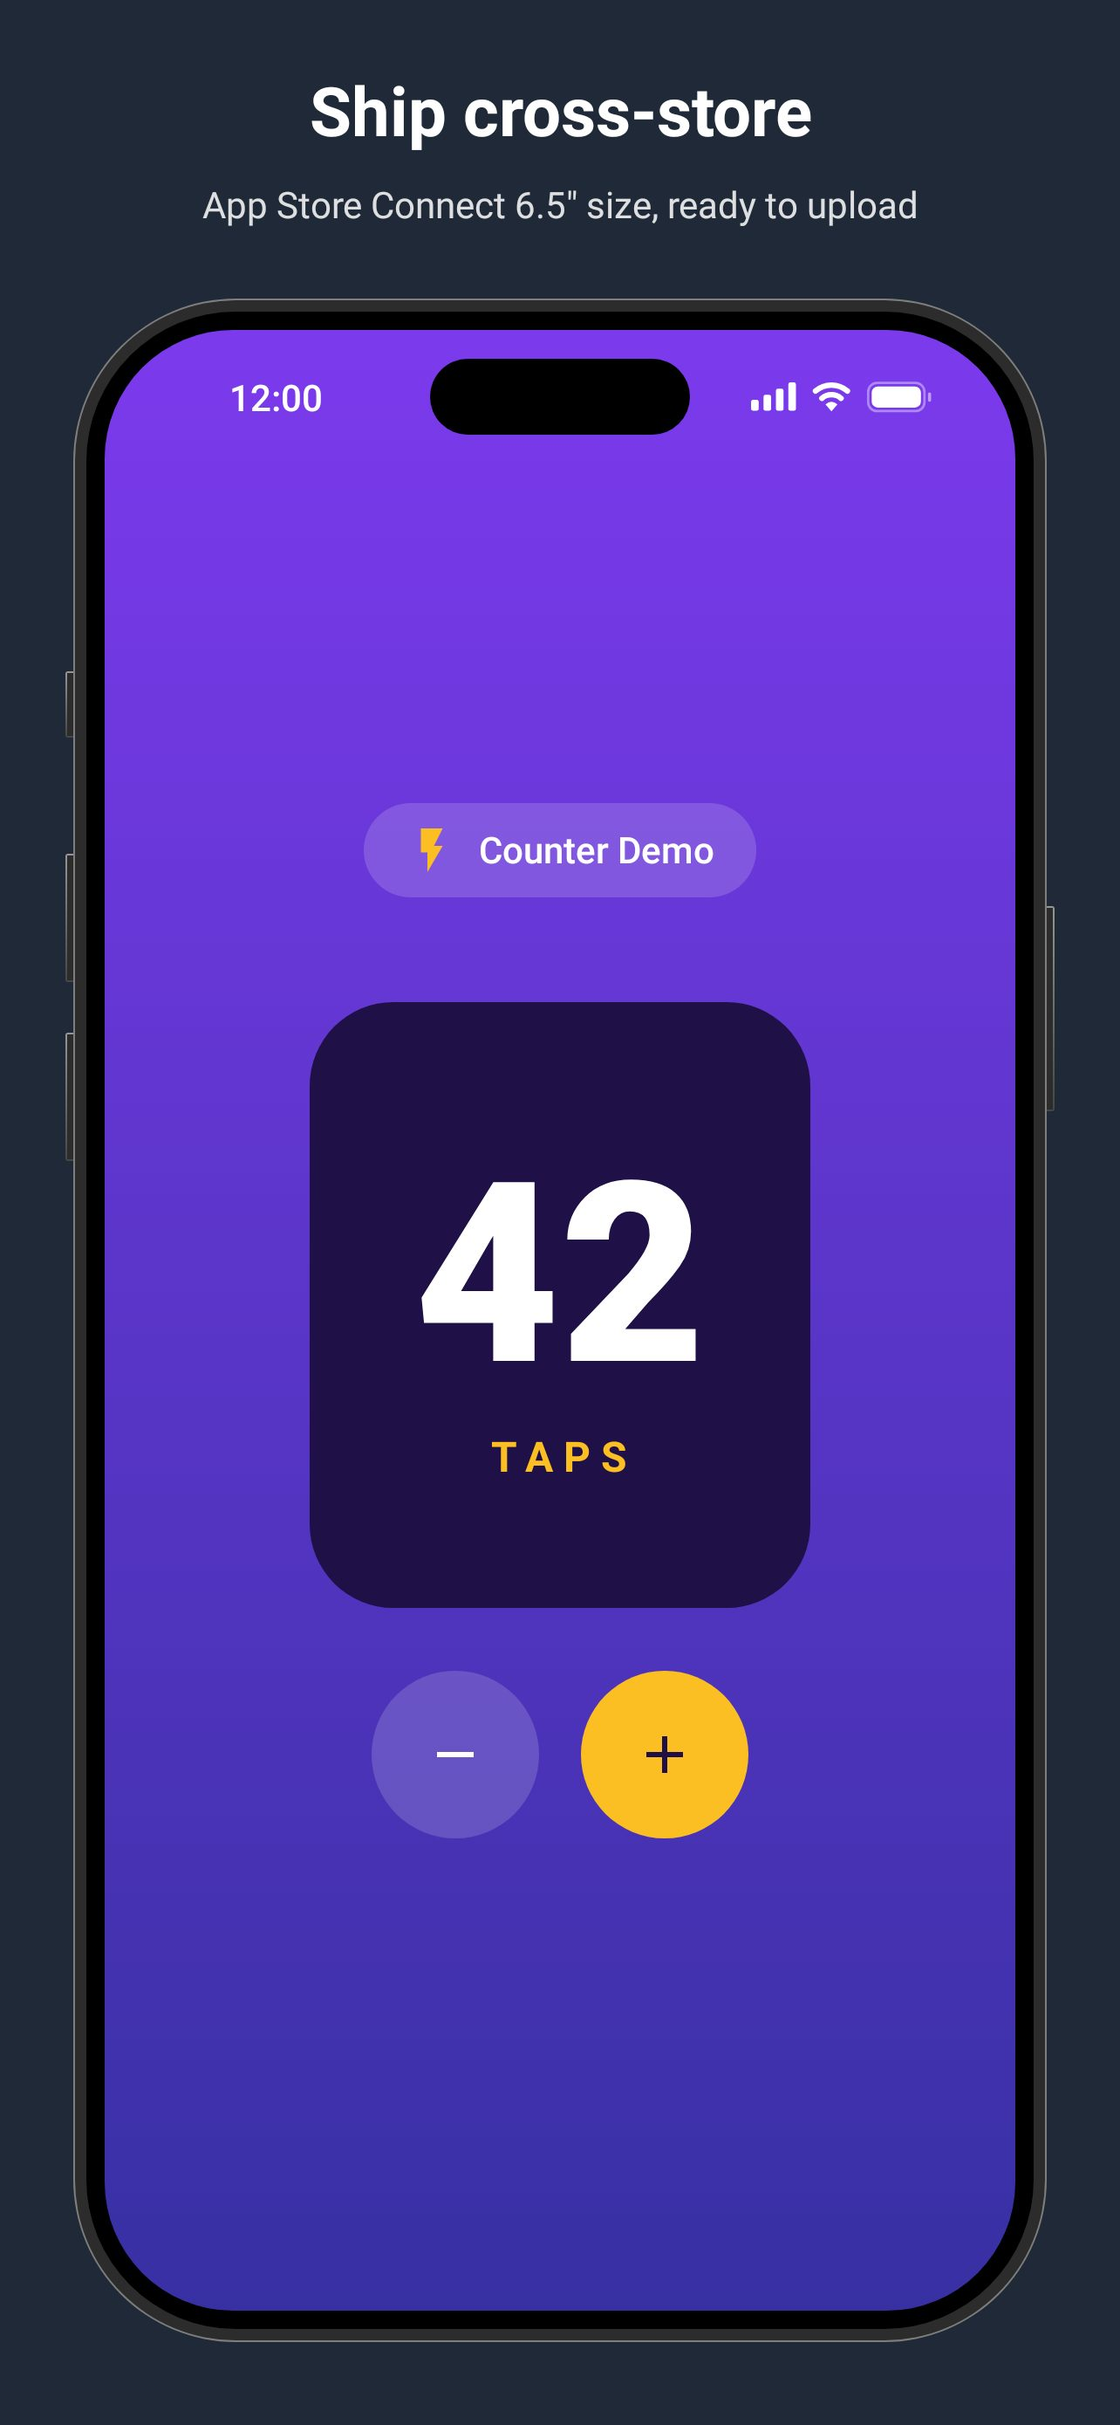
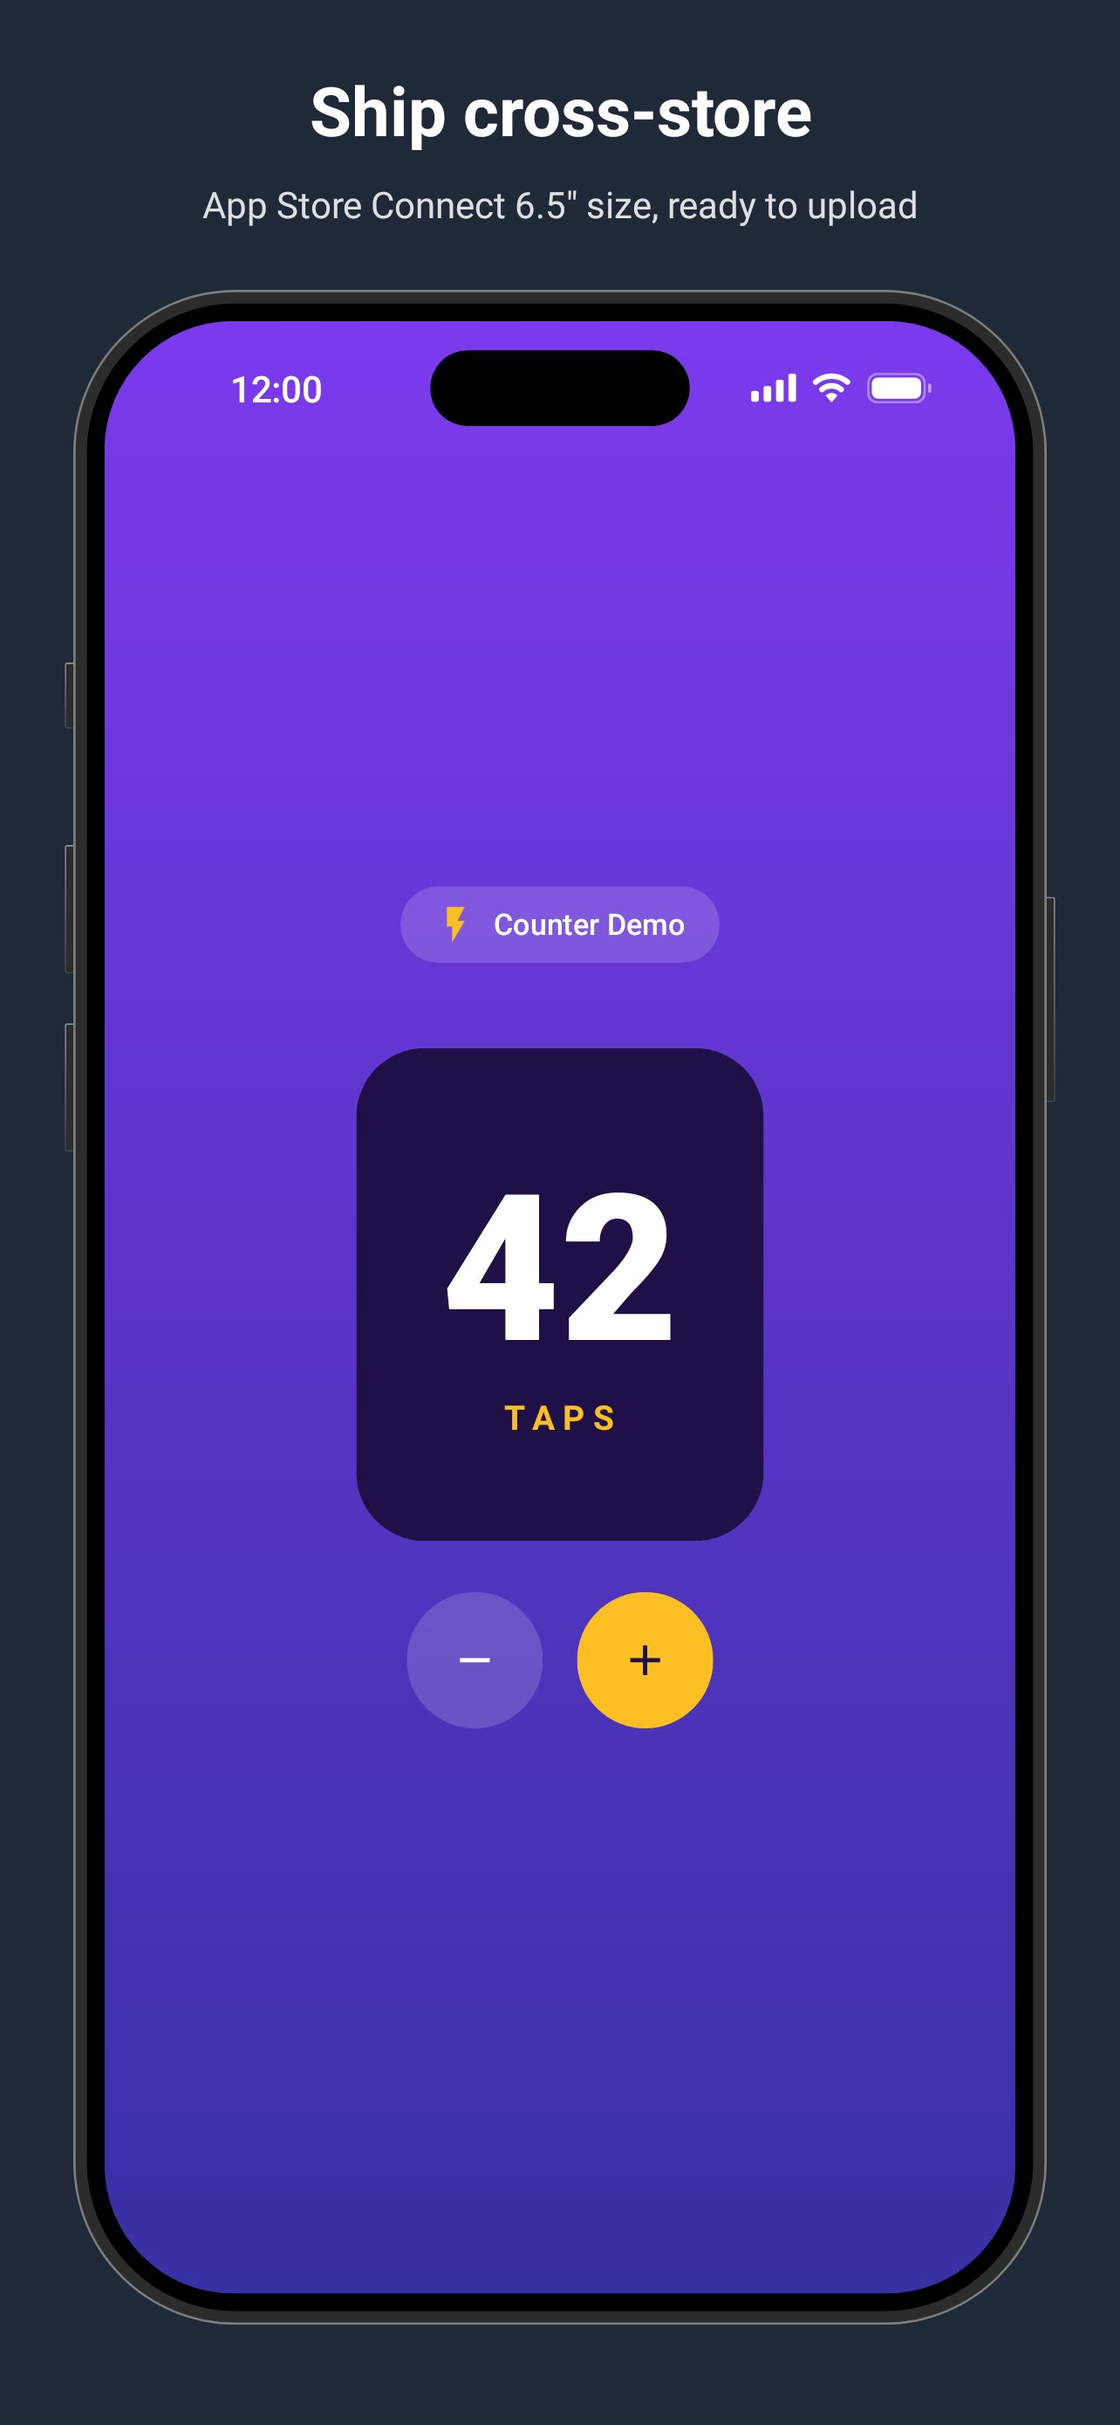
Measure Apple frame content at the slot's logical size
PhoneFrame has measured its content at a real device's 411x822dp and scaled
the mockup since 1.5.5, and DeviceMockup gives every form factor the same
contract. The Apple frames never got it: AppleFrame and AppleIPadFrame placed
content straight into the bezel's on-canvas footprint, so the banner's padding
and the bezel each took their cut of the slot's width before the app saw any
of it. A 6.5" screenshot measured its app at ~348dp instead of the 428dp its
canvas qualifiers promise — every sp and dp rendered ~20% larger than on a
real device, and width-sensitive layouts moved: the symptom that surfaced this
was a search field's placeholder folding onto two lines in a store listing,
on a screen that renders one line on every real iPhone.

Both frames now do what PhoneFrame does: measure content at the slot's
logical size — 428x926 and 430x932 for the iPhones, 1024x1366 for the iPad —
inside the device environment, and scale the whole mockup into the room the
banner leaves. FormFactor gains an internal logicalSize derived from the same
qualifiers the canvas renders under, so the Configuration, the WindowInfo and
the resource buckets all name one device. AppleFrame takes the slot as a
parameter since the two iPhone shelves differ; the dispatchers pass it.

AppleFrameEnvironmentTest pins the contract for all three slots by asserting
exact equality on both locals a screen can ask. The example screenshots move
[…]

Changed region(s): [[0.2492, 0.3096, 0.7477, 0.7739], [0.0623, 0.1238, 0.9346, 0.1857], [0.0623, 0.8978, 0.9346, 0.9597]]

diff --git a/library/src/main/kotlin/dev/lucianosantos/storescreenshots/frames/AppleFrame.kt b/library/src/main/kotlin/dev/lucianosantos/storescreenshots/frames/AppleFrame.kt
@@ -1,14 +1,17 @@
 package dev.lucianosantos.storescreenshots.frames
 
 import androidx.compose.foundation.layout.ColumnScope
-import androidx.compose.foundation.layout.aspectRatio
-import androidx.compose.foundation.layout.fillMaxHeight
+import androidx.compose.foundation.layout.fillMaxSize
 import androidx.compose.runtime.Composable
 import androidx.compose.ui.Modifier
 import androidx.compose.ui.graphics.Color
 import androidx.compose.ui.unit.dp
 import androidx.compose.ui.unit.sp
+import dev.lucianosantos.storescreenshots.FormFactor
+import dev.lucianosantos.storescreenshots.ProvideDeviceEnvironment
+import dev.lucianosantos.storescreenshots.ScaledMockup
 import dev.lucianosantos.storescreenshots.ScreenshotStyle
+import dev.lucianosantos.storescreenshots.iPhoneBodySize
 
 /** Width-to-height ratio of the default [AppleFrame] device's enclosure. */
 val AppleIPhoneAspectRatio: Float = AppleIPhoneModel.IPhone17ProMax.aspectRatio
@@ -19,6 +22,13 @@ val AppleIPhoneAspectRatio: Float = AppleIPhoneModel.IPhone17ProMax.aspectRatio
  * The mockup is a scale model of [device] as the Simulator draws it — machined rail, black bezel,
  * rounded display, side buttons, Dynamic Island, and an iOS status bar rather than a Material one,
  * which App Store Review guideline 2.3.10 rejects.
+ *
+ * [content] is measured at [formFactor]'s logical size — the dp rectangle the slot's qualifiers
+ * name, 428x926 for the 6.5" slot and 430x932 for the 6.7" — and the whole mockup is then scaled
+ * uniformly into the room the banner leaves, exactly the way [PhoneFrame]'s content is measured at
+ * a real phone's 411x822dp. The screen inside the frame therefore lays out at real-device
+ * proportions however small the banner draws the device, instead of being measured at whatever dp
+ * the bezel's footprint happens to span on the canvas.
  *
  * [device] defaults to the iPhone 17 Pro Max, which is what both App Store iPhone slots are sized
  * for and what a reviewer expects a current submission to depict. [aspectRatio] is the aspect ratio
@@ -31,10 +41,14 @@ fun AppleFrame(
     backgroundColor: Color,
     contentColor: Color = Color.White,
     style: ScreenshotStyle = ScreenshotStyle(),
+    formFactor: FormFactor = FormFactor.AppleIPhone67,
     device: AppleIPhoneModel = AppleIPhoneModel.IPhone17ProMax,
     aspectRatio: Float = device.aspectRatio,
     content: @Composable () -> Unit,
 ) {
+    require(formFactor == FormFactor.AppleIPhone65 || formFactor == FormFactor.AppleIPhone67) {
+        "AppleFrame draws the App Store iPhone slots; $formFactor is not one."
+    }
     FramedLayout(
         title = title,
         description = description,
@@ -48,7 +62,7 @@ fun AppleFrame(
         titleFontSize = 26.sp,
         descriptionFontSize = 14.sp,
         mockup = { externalModifier ->
-            IPhoneMockup(externalModifier, style, aspectRatio, device, content)
+            IPhoneMockup(externalModifier, style, formFactor, device, aspectRatio, content)
         }
     )
 }
@@ -57,20 +71,32 @@ fun AppleFrame(
 private fun ColumnScope.IPhoneMockup(
     externalModifier: Modifier,
     style: ScreenshotStyle,
-    aspectRatio: Float,
+    formFactor: FormFactor,
     device: AppleIPhoneModel,
+    aspectRatio: Float,
     content: @Composable () -> Unit,
 ) {
-    IPhoneBezel(
-        modifier = externalModifier
-            .fillMaxHeight()
-            .aspectRatio(aspectRatio),
-        showStatusBar = style.showStatusBar,
-        clock = style.statusBarClock,
-        statusBarContentDark = style.statusBarContentDark,
-        edgeToEdge = style.edgeToEdge,
-        metrics = device.metrics,
-        elevation = style.mockupElevation,
-        content = content,
-    )
+    // The slot's logical screen, and the body that display sits in at the device's proportions.
+    val logical = formFactor.logicalSize
+    val (bodyWidth, nativeBodyHeight) = iPhoneBodySize(device, logical.width, logical.height)
+    // An overridden ratio reshapes the body it is documented to describe; the default lands on the
+    // derived height exactly.
+    val bodyHeight = if (aspectRatio == device.aspectRatio) {
+        nativeBodyHeight
+    } else {
+        (bodyWidth.value / aspectRatio).dp
+    }
+    ScaledMockup(bodyWidth, bodyHeight, externalModifier) {
+        IPhoneBezel(
+            modifier = Modifier.fillMaxSize(),
+            showStatusBar = style.showStatusBar,
+            clock = style.statusBarClock,
+            statusBarContentDark = style.statusBarContentDark,
+            edgeToEdge = style.edgeToEdge,
+            metrics = device.metrics,
+            elevation = style.mockupElevation,
+        ) {
+            ProvideDeviceEnvironment(logical.width, logical.height, content)
+        }
+    }
 }

diff --git a/library/src/test/kotlin/dev/lucianosantos/storescreenshots/frames/AppleFrameEnvironmentTest.kt b/library/src/test/kotlin/dev/lucianosantos/storescreenshots/frames/AppleFrameEnvironmentTest.kt
@@ -1,0 +1,104 @@
+package dev.lucianosantos.storescreenshots.frames
+
+import androidx.compose.foundation.background
+import androidx.compose.foundation.layout.Box
+import androidx.compose.foundation.layout.fillMaxSize
+import androidx.compose.runtime.Composable
+import androidx.compose.ui.Modifier
+import androidx.compose.ui.graphics.Color
+import androidx.compose.ui.platform.LocalConfiguration
+import androidx.compose.ui.platform.LocalWindowInfo
+import androidx.compose.ui.unit.IntSize
+import dev.lucianosantos.storescreenshots.FormFactor
+import dev.lucianosantos.storescreenshots.StoreScreenshotsTest
+import org.junit.Assert.assertEquals
+import org.junit.Test
+
+/**
+ * What a screen inside an Apple frame believed about the device it was on. Recorded during
+ * composition rather than asserted there, so a failure reports the values instead of dying
+ * inside Compose.
+ */
+private class Seen {
+    var containerSize: IntSize? = null
+    var screenWidthDp: Int? = null
+}
+
+@Composable
+private fun RecordingContent(seen: Seen) {
+    seen.containerSize = LocalWindowInfo.current.containerSize
+    seen.screenWidthDp = LocalConfiguration.current.screenWidthDp
+    Box(Modifier.fillMaxSize().background(Color(0xFF6A1B9A)))
+}
+
+/**
+ * The Apple frames measure content at the slot's logical size — 428x926dp for the 6.5" iPhone,
+ * 1024x1366dp for the 13" iPad — and scale the mockup into the banner, the way [PhoneFrame] has
+ * measured at 411x822dp since 1.5.5.
+ *
+ * They used to place content straight into the bezel's on-canvas footprint instead: the banner's
+ * padding and the bezel each took their share of the slot's width first, and a 6.5" screenshot
+ * measured its app at ~348dp — 80dp narrower than the 428dp the canvas qualifiers promise. Every
+ * sp and dp then rendered ~20% larger than on a real device, and width-sensitive layouts broke:
+ * the first symptom in the wild was a search field's placeholder folding onto two lines in a
+ * store listing, on a screen that renders one line on every real iPhone.
+ *
+ * Asserting exact equality with the slot's logical size, on both locals a screen can ask, pins
+ * the contract: the qualifiers, the Configuration and the WindowInfo all name the same device.
+ */
+class AppleFrameEnvironmentTest {
+
+    class IPhone65 : StoreScreenshotsTest(FormFactor.AppleIPhone65) {
+        @Test
+        fun contentIsMeasuredAtTheSlotsLogicalSize() {
+            val seen = Seen()
+            screenshot(
+                locales = listOf("en-US"),
+                title = "probe",
+                description = "probe",
+                backgroundColor = Color.Black,
+                fileName = "env_iphone65",
+            ) { RecordingContent(seen) }
+            seen.assertLogicalSize(width = 428, height = 926)
+        }
+    }
+
+    class IPhone67 : StoreScreenshotsTest(FormFactor.AppleIPhone67) {
+        @Test
+        fun contentIsMeasuredAtTheSlotsLogicalSize() {
+            val seen = Seen()
+            screenshot(
+                locales = listOf("en-US"),
+                title = "probe",
+                description = "probe",
+                backgroundColor = Color.Black,
+                fileName = "env_iphone67",
+            ) { RecordingContent(seen) }
+            seen.assertLogicalSize(width = 430, height = 932)
+        }
+    }
+
+    class IPad13 : StoreScreenshotsTest(FormFactor.AppleIPad13) {
+        @Test
+        fun contentIsMeasuredAtTheSlotsLogicalSize() {
+            val seen = Seen()
+            screenshot(
+                locales = listOf("en-US"),
+                title = "probe",
+                description = "probe",
+                backgroundColor = Color.Black,
+                fileName = "env_ipad13",
+            ) { RecordingContent(seen) }
+            seen.assertLogicalSize(width = 1024, height = 1366)
+        }
+    }
+}
+
+private fun Seen.assertLogicalSize(width: Int, height: Int) {
+    assertEquals("Configuration.screenWidthDp", width, requireNotNull(screenWidthDp) { "content never composed" })
+    val container = requireNotNull(containerSize) { "content never composed" }
+    // The canvases render at 3x (iPhones) and 2x (iPad); containerSize is in pixels.
+    val density = if (width >= 1024) 2 else 3
+    assertEquals("containerSize.width", width * density, container.width)
+    assertEquals("containerSize.height", height * density, container.height)
+}

diff --git a/library/src/main/kotlin/dev/lucianosantos/storescreenshots/frames/IPadFrame.kt b/library/src/main/kotlin/dev/lucianosantos/storescreenshots/frames/IPadFrame.kt
@@ -1,14 +1,17 @@
 package dev.lucianosantos.storescreenshots.frames
 
 import androidx.compose.foundation.layout.ColumnScope
-import androidx.compose.foundation.layout.aspectRatio
-import androidx.compose.foundation.layout.fillMaxHeight
+import androidx.compose.foundation.layout.fillMaxSize
 import androidx.compose.runtime.Composable
 import androidx.compose.ui.Modifier
 import androidx.compose.ui.graphics.Color
 import androidx.compose.ui.unit.dp
 import androidx.compose.ui.unit.sp
+import dev.lucianosantos.storescreenshots.FormFactor
+import dev.lucianosantos.storescreenshots.ProvideDeviceEnvironment
+import dev.lucianosantos.storescreenshots.ScaledMockup
 import dev.lucianosantos.storescreenshots.ScreenshotStyle
+import dev.lucianosantos.storescreenshots.iPadBodySize
 import dev.lucianosantos.storescreenshots.frames.IPadAir13Metrics as M
 
 /** Width-to-height ratio of a 13-inch iPad's enclosure, measured off the Simulator. */
@@ -56,15 +59,26 @@ private fun ColumnScope.IPadMockup(
     aspectRatio: Float,
     content: @Composable () -> Unit,
 ) {
-    IPadBezel(
-        modifier = externalModifier
-            .fillMaxHeight()
-            .aspectRatio(aspectRatio),
-        showStatusBar = style.showStatusBar,
-        clock = style.statusBarClock,
-        statusBarContentDark = style.statusBarContentDark,
-        edgeToEdge = style.edgeToEdge,
-        elevation = style.mockupElevation,
-        content = content,
-    )
+    // The slot's logical screen (1024x1366, a real 13" iPad's display) and the body around it.
+    // Content is measured there and the mockup scaled into the banner's room, the same contract
+    // as [AppleFrame] and [PhoneFrame] — not at whatever dp the footprint spans on the canvas.
+    val logical = FormFactor.AppleIPad13.logicalSize
+    val (bodyWidth, nativeBodyHeight) = iPadBodySize(logical.width, logical.height)
+    val bodyHeight = if (aspectRatio == AppleIPadAspectRatio) {
+        nativeBodyHeight
+    } else {
+        (bodyWidth.value / aspectRatio).dp
+    }
+    ScaledMockup(bodyWidth, bodyHeight, externalModifier) {
+        IPadBezel(
+            modifier = Modifier.fillMaxSize(),
+            showStatusBar = style.showStatusBar,
+            clock = style.statusBarClock,
+            statusBarContentDark = style.statusBarContentDark,
+            edgeToEdge = style.edgeToEdge,
+            elevation = style.mockupElevation,
+        ) {
+            ProvideDeviceEnvironment(logical.width, logical.height, content)
+        }
+    }
 }

diff --git a/library/src/main/kotlin/dev/lucianosantos/storescreenshots/DeviceMockup.kt b/library/src/main/kotlin/dev/lucianosantos/storescreenshots/DeviceMockup.kt
@@ -99,14 +99,14 @@ private fun orientSize(portraitWidth: Dp, portraitHeight: Dp, orientation: Mocku
  * bezel on all four sides, at [device]'s measured proportions. [IPhoneBezel] is sized by its body,
  * not its screen, so the footprint has to be grown before it is laid out.
  */
-private fun iPhoneBodySize(device: AppleIPhoneModel, screenWidth: Dp, screenHeight: Dp): Pair<Dp, Dp> {
+internal fun iPhoneBodySize(device: AppleIPhoneModel, screenWidth: Dp, screenHeight: Dp): Pair<Dp, Dp> {
     val m = device.metrics
     val bezel = m.Bezel * (screenWidth.value / m.ScreenWidth)
     return (screenWidth + (bezel * 2).dp) to (screenHeight + (bezel * 2).dp)
 }
 
 /** The same, for an iPad — see [IPadAir13Metrics]. */
-private fun iPadBodySize(screenWidth: Dp, screenHeight: Dp): Pair<Dp, Dp> {
+internal fun iPadBodySize(screenWidth: Dp, screenHeight: Dp): Pair<Dp, Dp> {
     val bezel = IPadAir13Metrics.Bezel * (screenWidth.value / IPadAir13Metrics.ScreenWidth)
     return (screenWidth + (bezel * 2).dp) to (screenHeight + (bezel * 2).dp)
 }
@@ -324,7 +324,7 @@ private fun watchSpec(shape: WatchShape): WatchSpec = when (shape) {
  * lays the device out at, so `MockupOrientation.Landscape` content also reads landscape.
  */
 @Composable
-private fun ProvideDeviceEnvironment(
+internal fun ProvideDeviceEnvironment(
     widthDp: Dp,
     heightDp: Dp,
     content: @Composable () -> Unit,
@@ -372,7 +372,7 @@ private fun ProvideDeviceEnvironment(
  * footprint directly, which would shrink the box but not the text inside it.
  */
 @Composable
-private fun ScaledMockup(
+internal fun ScaledMockup(
     nativeWidth: Dp,
     nativeHeight: Dp,
     modifier: Modifier,

diff --git a/library/src/main/kotlin/dev/lucianosantos/storescreenshots/FormFactor.kt b/library/src/main/kotlin/dev/lucianosantos/storescreenshots/FormFactor.kt
@@ -1,5 +1,8 @@
 package dev.lucianosantos.storescreenshots
 
+import androidx.compose.ui.unit.DpSize
+import androidx.compose.ui.unit.dp
+
 import kotlin.math.abs
 import kotlin.math.roundToInt
 
@@ -142,6 +145,22 @@ enum class FormFactor(
      * copy could only ever drift out of step with them.
      */
     val widthPx: Int get() = qualifiers.toPixelSize().first
+
+    /**
+     * The logical size named by [qualifiers] — the dp rectangle a screen inside this form factor's
+     * device is measured at, and the size [androidx.compose.ui.platform.LocalConfiguration] and
+     * [androidx.compose.ui.platform.LocalWindowInfo] report to it.
+     */
+    internal val logicalSize: DpSize
+        get() {
+            val width = requireNotNull(Regex("""w(\d+)dp""").find(qualifiers)?.groupValues?.get(1)) {
+                "$qualifiers names no width"
+            }
+            val height = requireNotNull(Regex("""h(\d+)dp""").find(qualifiers)?.groupValues?.get(1)) {
+                "$qualifiers names no height"
+            }
+            return DpSize(width.toInt().dp, height.toInt().dp)
+        }
 
     /** Height in pixels of the PNG this form factor produces. See [widthPx]. */
     val heightPx: Int get() = qualifiers.toPixelSize().second

diff --git a/library/src/main/kotlin/dev/lucianosantos/storescreenshots/ScreenshotRule.kt b/library/src/main/kotlin/dev/lucianosantos/storescreenshots/ScreenshotRule.kt
@@ -358,6 +358,7 @@ class ScreenshotRule(
                 FormFactor.AppleIPhone67,
                 FormFactor.AppleIPhone65 -> AppleFrame(
                     title, description, backgroundColor, contentColor, style,
+                    formFactor = formFactor,
                     device = AppleIPhoneModel.IPhone17ProMax,
                     content = content,
                 )

diff --git a/library/src/main/kotlin/dev/lucianosantos/storescreenshots/ScreenshotPreview.kt b/library/src/main/kotlin/dev/lucianosantos/storescreenshots/ScreenshotPreview.kt
@@ -76,6 +76,7 @@ fun ScreenshotPreview(
             FormFactor.AppleIPhone67,
             FormFactor.AppleIPhone65 -> AppleFrame(
                 title, description, backgroundColor, contentColor, style,
+                formFactor = formFactor,
                 device = AppleIPhoneModel.IPhone17ProMax,
                 content = content,
             )
